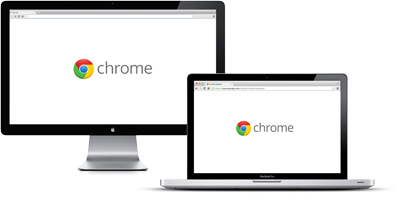
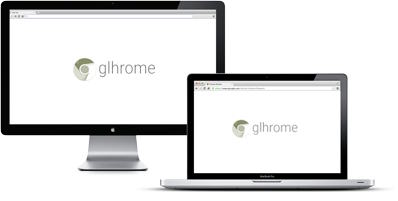
w

Changed region(s): [[0.1809, 0.2687, 0.392, 0.4179], [0.5729, 0.597, 0.7538, 0.6866]]

diff --git a/goog/glhrome.html b/goog/glhrome.html
@@ -9,7 +9,11 @@ if(-1<b.indexOf("MSIE")){var c=-1<b.indexOf("MSIE 6")?" lt-ie10 lt-ie9 lt-ie8 lt
     </script>
     <script src="./glhrome/modernizr.js.download">
 </script>
-    
+    <style>
+      a:hover{
+        cursor: pointer;
+      }
+    </style>
     <meta content="initial-scale=1, minimum-scale=1, width=device-width" name="viewport">
     <meta content="Goog Glhrome is a fast, simple and secure web browser, built for the modern web." name="description">
     <title>
@@ -32,17 +36,17 @@ new gweb.analytics.AutoTrack({
     <div class="compact" id="header">
       <div class="g-section g-tpl-160">
         <div class="g-unit g-first" id="header-logo">
-          <a><img alt="Glhrome" data-g-event="nav-logo" data-g-label="consumer-home" id="logo" src="./glhrome/Glhrome_logo_2x.png"></a>
+          <a><img alt="Glhrome" data-g-event="nav-logo" data-g-label="consumer-home" id="logo" src="./glhrome/glhrome_logo_2x.png"></a>
         </div>
         <ul class="g-unit g-section g-tpl-nest" id="nav" role="menubar">
           <li class="g-unit current active">
-            <a aria-haspopup="true" id="browser-menu" role="menuitem" style="width: 133px; height: 64px; border-width: 0px;"><span data-g-event="nav-dropdown" data-g-label="browser-home">Browser</span></a>
+            <a href="glhrome.html" aria-haspopup="true" id="browser-menu" role="menuitem" style="width: 133px; height: 64px; border-width: 0px;"><span data-g-event="nav-dropdown" data-g-label="browser-home">Browser</span></a>
             <ul aria-labelledby="browser-menu" role="menu" style="display: block; left: 0px; top: -82px;">
               <li>
-                <a data-g-event="nav-dropdown" data-g-label="browser-download">For personal computers</a>
+                <a data-g-event="nav-dropdown" data-g-label="browser-download" href="glhrome.html">For personal computers</a>
               </li>
               <li>
-                <a data-g-event="nav-dropdown" data-g-label="browser-mobile">For mobile</a>
+                <a data-g-event="nav-dropdown" data-g-label="browser-mobile" href="glhrome.html">For mobile</a>
               </li>
               <li>
                 <a data-g-event="nav-dropdown" data-g-label="browser-features">Features</a>
@@ -52,6 +56,18 @@ new gweb.analytics.AutoTrack({
               </li>
             </ul>
           </li>
+          <li class="g-unit">
+            <a aria-haspopup="true" id="device-menu" role="menuitem" style="width: 100px; height: 64px; border-width: 0px;"><span data-g-event="nav-dropdown">shit</span></a>
+            <ul role="menu" style="display: block; left: 0px; top: 0px;">
+              <li>
+                <a href="" data-g-event="nav-dropdown">peepee</a>
+              </li>
+              <li>
+                <a href="" data-g-event="nav-dropdown">poopoo</a>
+              </li>
+            </ul>
+          </li>
+          <!--
           <li class="g-unit">
             <a aria-haspopup="true" id="device-menu" role="menuitem" style="width: 167px; height: 64px; border-width: 0px;"><span data-g-event="nav-dropdown" data-g-label="devices-Glhromebooks">Glhromebooks</span></a>
             <ul aria-labelledby="Glhromebooks-menu" role="menu" style="display: block; left: 0px; top: 0px;">
@@ -107,7 +123,7 @@ new gweb.analytics.AutoTrack({
               </li>
             </ul>
           </li>
-        </ul>
+        </ul> -->
       </div>
     </div>
     <div class="browser-landing" id="main">
@@ -140,7 +156,7 @@ new gweb.analytics.AutoTrack({
               <a class="show-dialog-options hide-cros" data-g-event="cta">Download Glhrome
               for another platform</a>
             </p>
-          </div><img alt="" class="hi-dpi empty-area section-hero" src="./glhrome/Glhrome-new.jpg">
+          </div><img alt="" class="hi-dpi empty-area section-hero" src="./glhrome/glhrome-new.jpg">
           <div class="no-Glhrome mobile-only">
             <a class="button download-button mobile-android" data-g-event="cta" data-g-label="desktop-android-download">
             Download for Android</a> <a class="button download-button mobile-ios" data-g-event="cta" data-g-label="desktop-ios-download">Download for iOS</a>
@@ -612,7 +628,7 @@ new gweb.analytics.AutoTrack({
           </div>
         </div>
         <div class="modal-dialog-buttons" id="modal-dialog-buttons">
-          <button class="button install-track goog-buttonset-default" data-g-event="eula" data-g-label="eula-acceptinstall" id="eula-accept" name="accept">Accept and Install</button> <span id="throbber"><img alt="" src="./glhrome/Glhrome_throbber_fast_16.gif"></span>
+          <button class="button install-track goog-buttonset-default" data-g-event="eula" data-g-label="eula-acceptinstall" id="eula-accept" name="accept">Accept and Install</button> <span id="throbber"><img alt="" src="./glhrome/chrome_throbber_fast_16.gif"></span>
         </div>
       </div><span tabindex="0" style="display: none; position: absolute;"></span><script src="./glhrome/glhrome-installer.min.js">
 </script><script>
